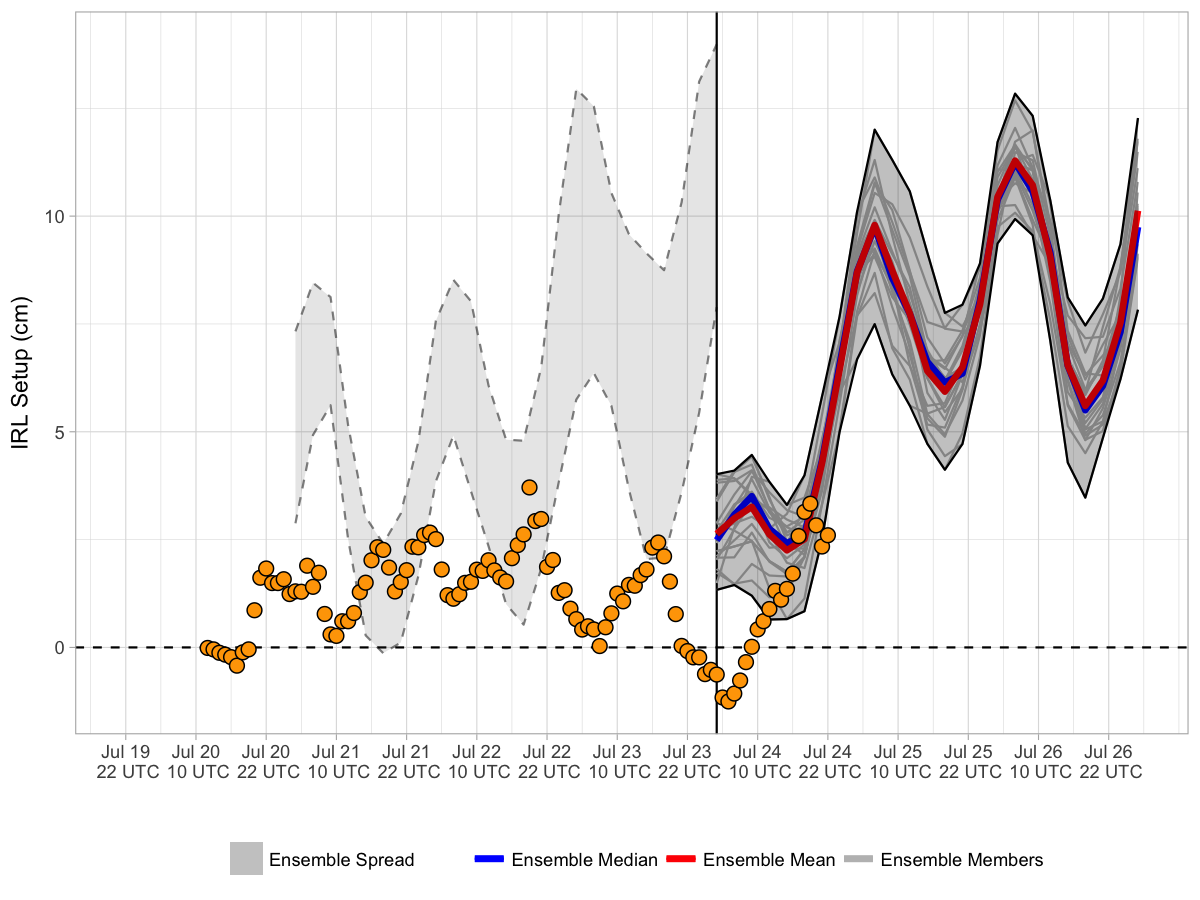
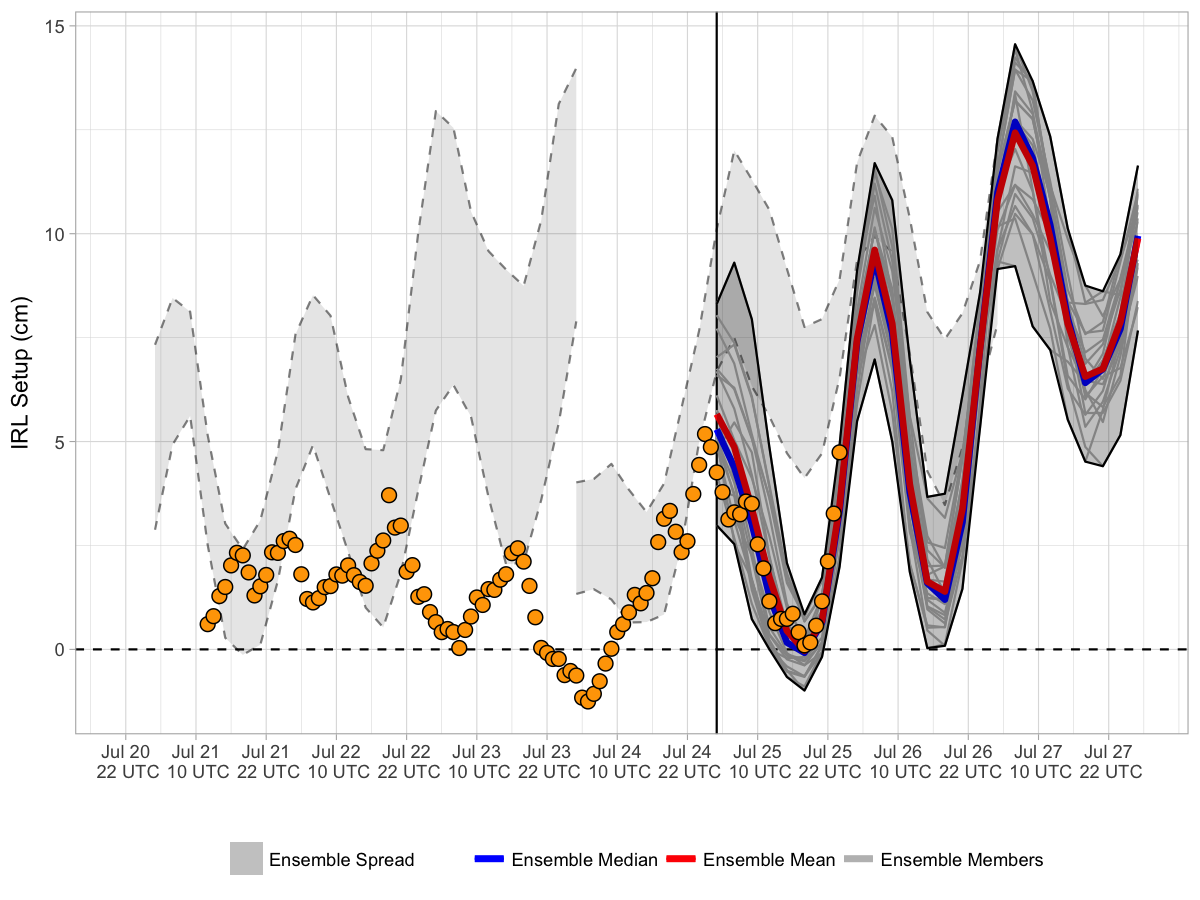
20170725 forecast update

diff --git a/docs/index.md b/docs/index.md
@@ -3,7 +3,7 @@ Current Forecast
 
 [![](img/raw_setup.png)](https://bhlmn.github.io/IRLSetup/img/raw_setup.png)
 
-> Forecast valid 2017-07-24 16:01:32.
+> Forecast valid 2017-07-25 20:54:02.
 
 Explanation
 -----------
@@ -17,7 +17,7 @@ star), and Sebastian, FL (white star). In general, southerly (northerly)
 winds result in increased water elevation near Titusville (Sebastian)
 and positive (negative) setup.
 
-The current (18 UTC 2017-07-23) 0.5° [Global Ensemble Forecast System
+The current (18 UTC 2017-07-24) 0.5° [Global Ensemble Forecast System
 (GEFS)](https://www.ncdc.noaa.gov/data-access/model-data/model-datasets/global-ensemble-forecast-system-gefs)
 mean and median forecasts of setup are represented by the red and blue
 curves, respectively. Ensemble spread from the current and three
